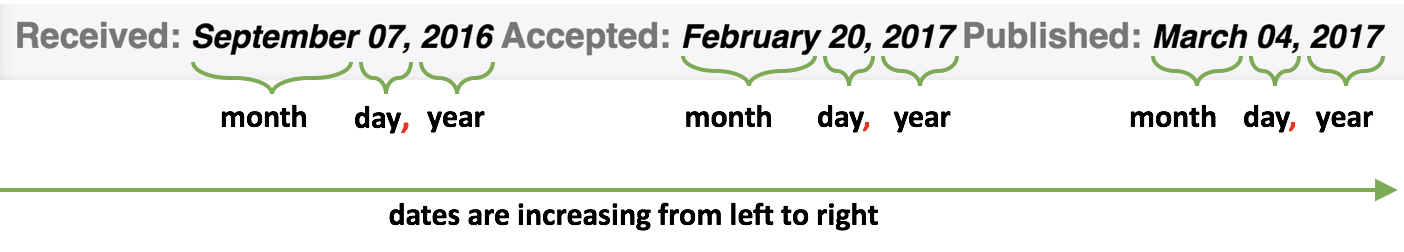
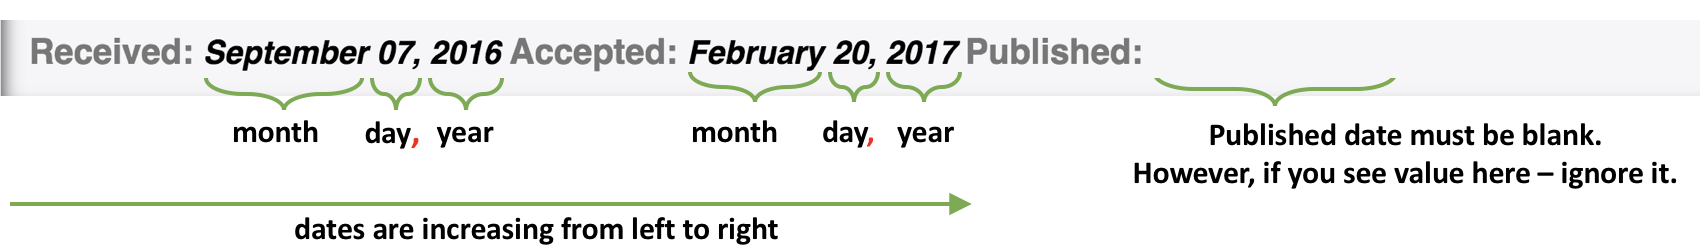
dsds

diff --git a/front matter.rst b/front matter.rst
@@ -300,12 +300,15 @@ Abbreviations are optional.
 
  	- Check that dates are written in italics.
 
+
+ .. note:: We no longer check Published date. It should be left blank. However, if you see date there, please ignore it.
+
+
  	.. image:: /_static/html_dates.png
    		:alt: Dates format
    		:scale: 45%
 
- 	- Check that Received date is older than Accepted date, and Accepted date is older than Published date (i.e. we cannot publish before we accept, and cannot accept before we receive).
-
+ 	- Check that Received date is older than Accepted date(i.e. we cannot publish before we accept).
 
 
 .. |br| raw:: html
